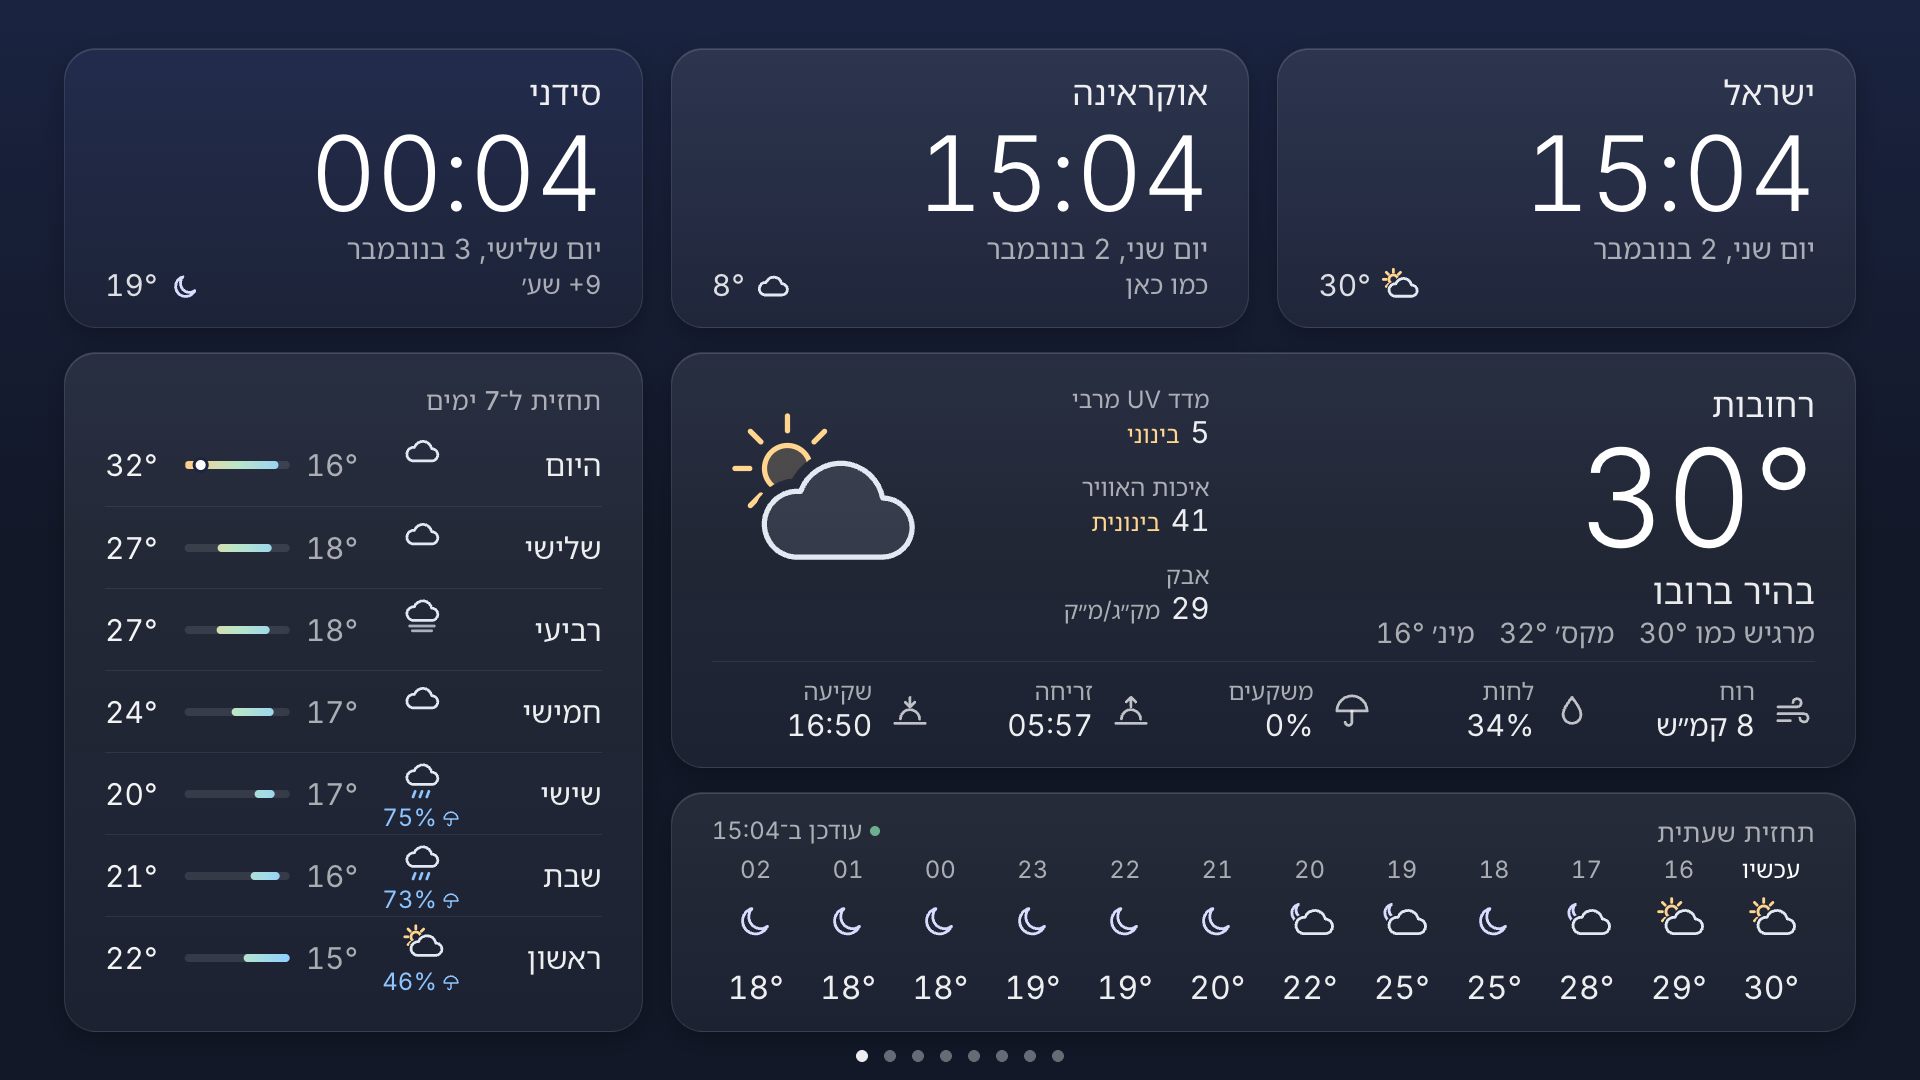
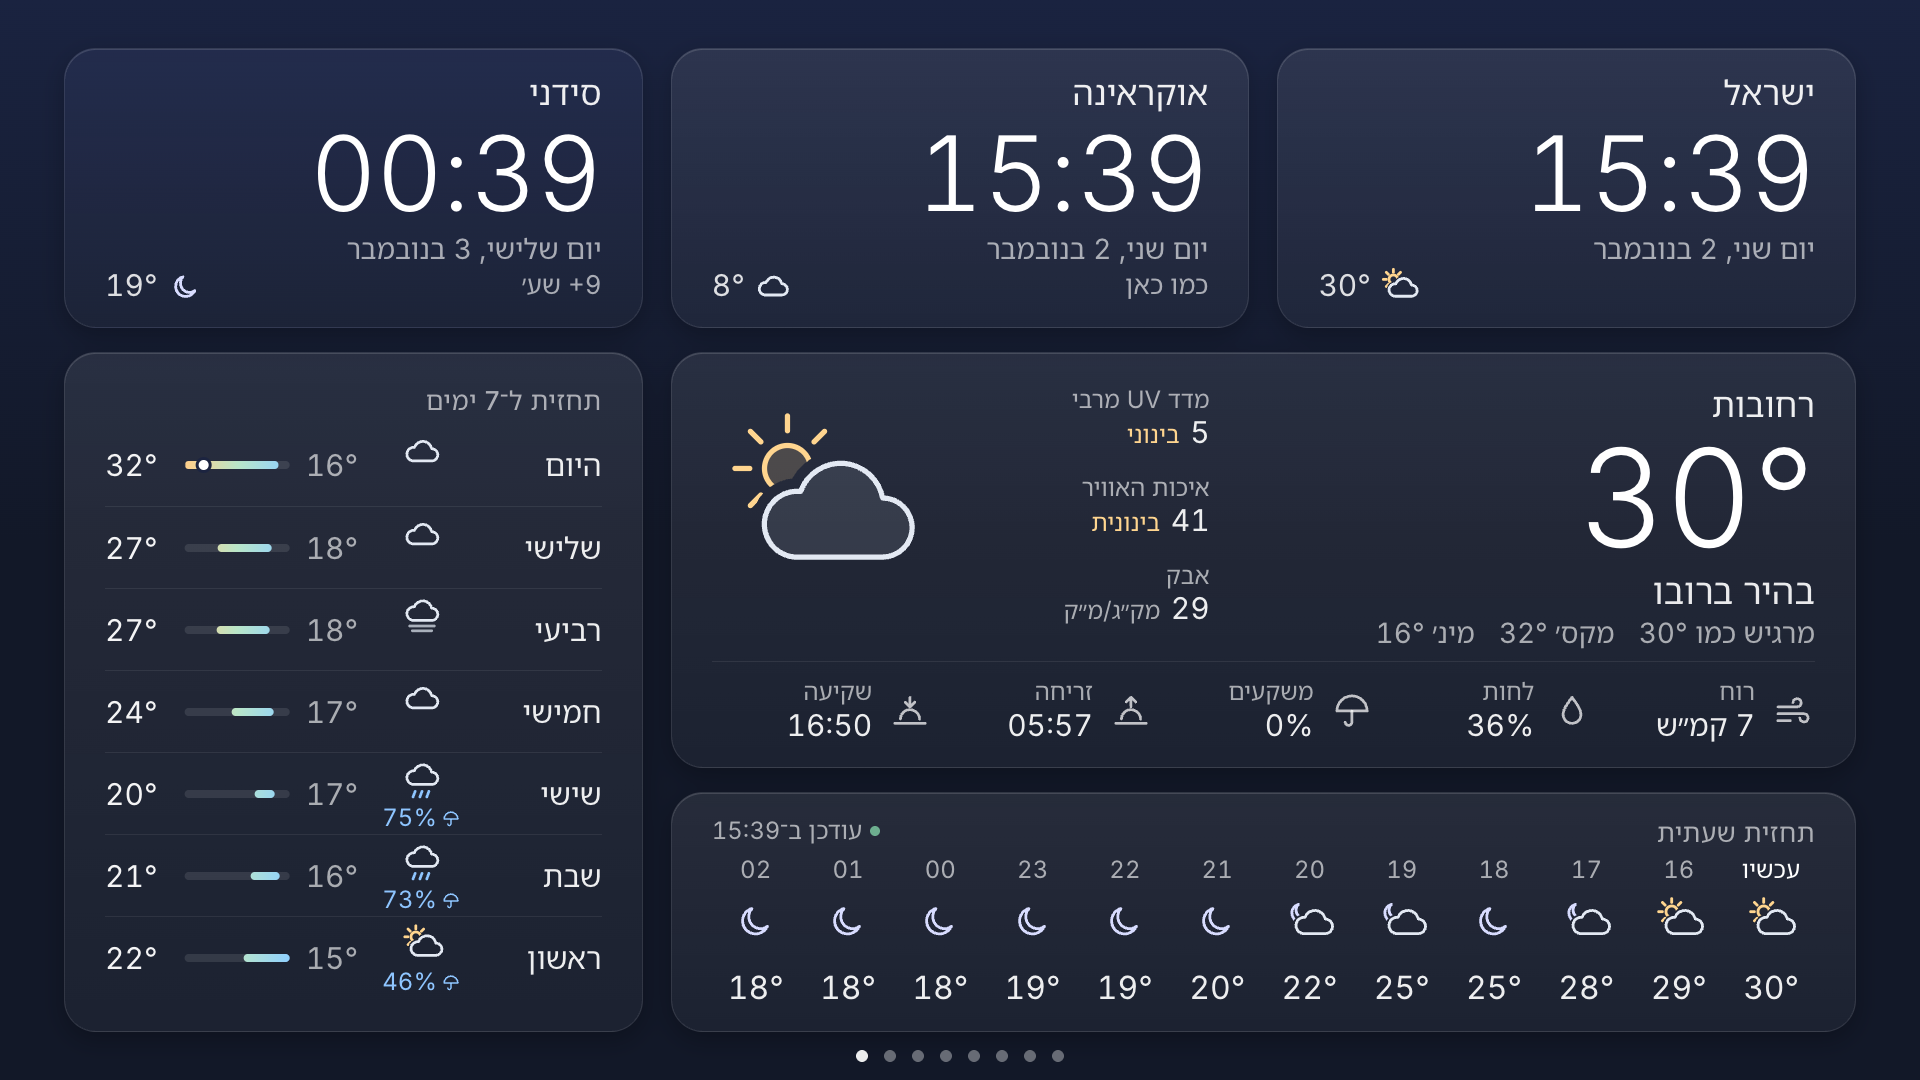
README: refresh screenshots from 6482299 (live weather and air)

diff --git a/README.md b/README.md
@@ -150,8 +150,9 @@ leaves the front it sends `stop-behind`. If the player is not installed or not r
 </table>
 
 <sub>Screenshots at 1920×1080 in desktop Chrome (<code>tools/readme-shots.mjs</code>). The traffic map is a real Mapbox image captured on 2026-10-30;
-the other screens use the test fixtures, so the headlines, temperatures, prices and travel times are sample data. The recent alerts on
-the Alerts screen are Pikud HaOref's real answer recorded on 2026-10-30. The Markets and Shabbat screens and the air quality show
+the home and Israel weather screens show the real Open-Meteo forecast and air quality at 15:39 on 2026-11-02 (<code>--live</code>);
+the news and traffic screens use the test fixtures, so their headlines and travel times are sample data. The recent alerts on
+the Alerts screen are Pikud HaOref's real answer recorded on 2026-10-30. The Markets and Shabbat screens show
 real answers recorded on 2026-11-02 (Yahoo Finance and open.er-api at 08:57 UTC; Hebcal's calendar for Rehovot), drawn at
 09:31 that morning.</sub>
 
